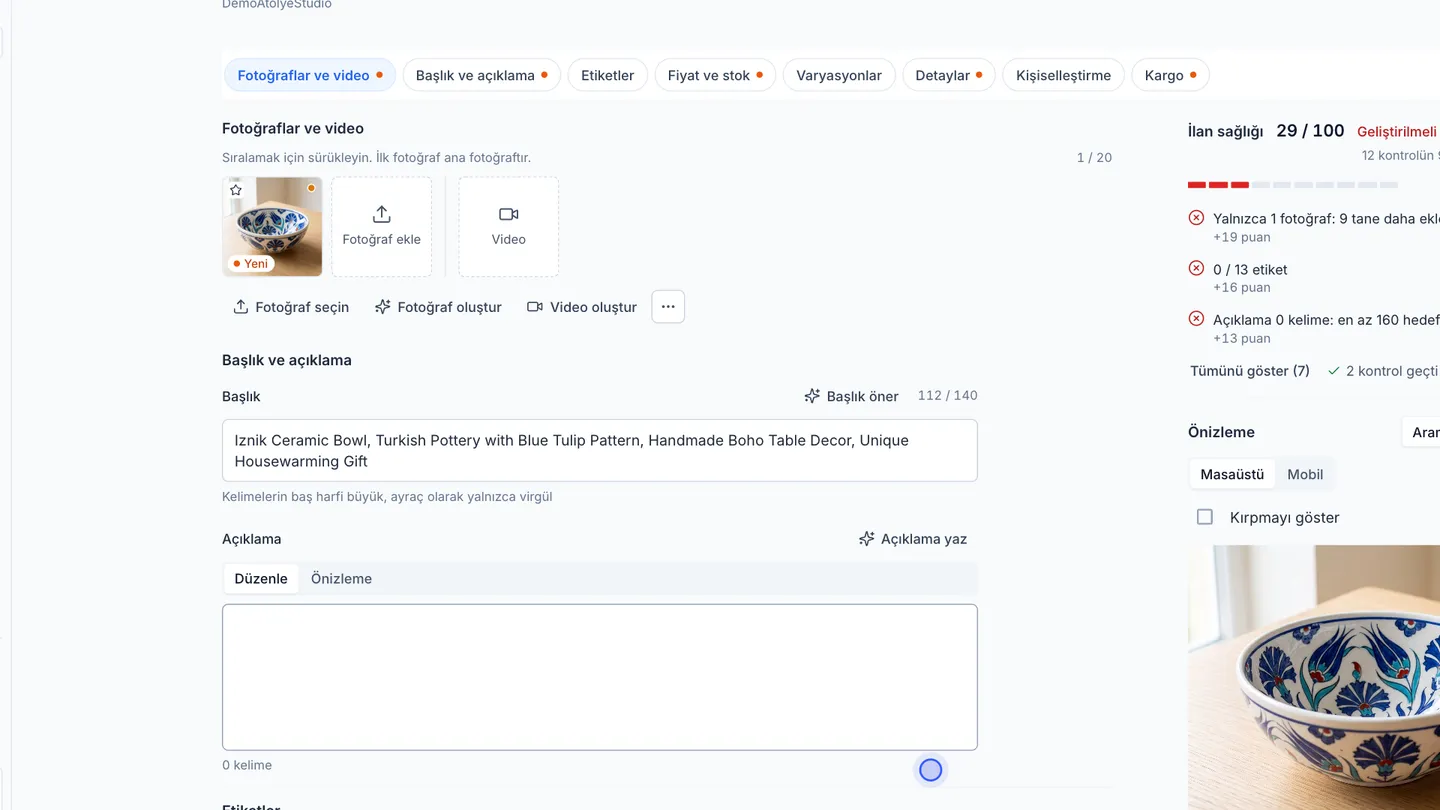
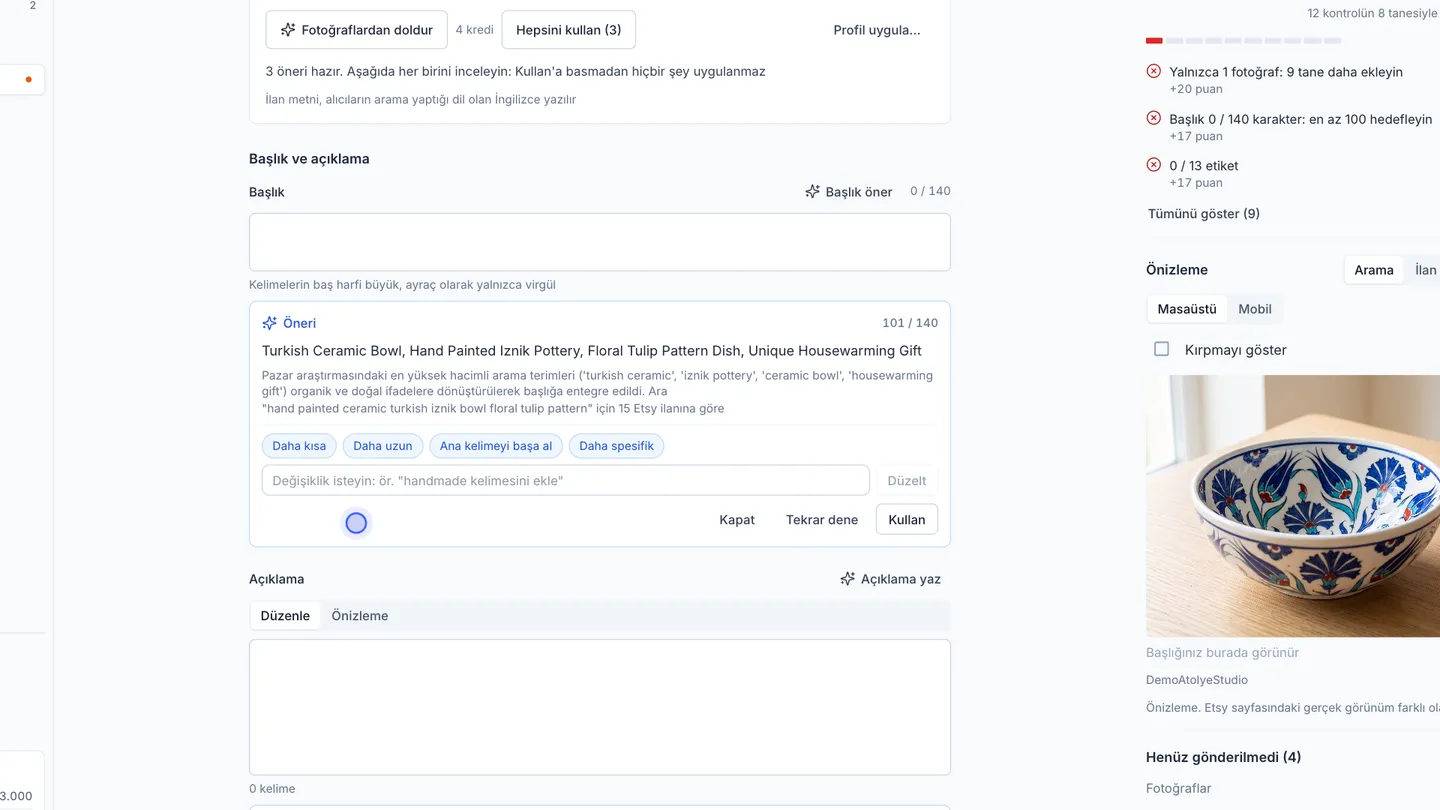
Tutorial 'Etsy'de yapay zekâyla yeni ilan oluşturun' re-recorded on the new flow: photo first, 'Fotoğraflardan doldur' (identify → title → description → tags), 'Fotoğraf oluştur' with the staged photo as reference; real AI answers re-captured once and replayed (big AI images saved next to the fixtur
Claude-Session: https://claude.ai/code/session_01FcMES83gkRwA8ExZkdJDcK

diff --git a/content/tr/guides/etsy-ilan-olusturma.md b/content/tr/guides/etsy-ilan-olusturma.md
@@ -1,8 +1,8 @@
 ---
 title: Etsy'de yapay zekâyla yeni ilan oluşturun | KolayXport
 description: >-
-  Fotoğrafınızı ekleyin; başlığı, etiketleri, açıklamayı ve ek ürün fotoğrafını yapay zekâyla hazırlayın, ilanı taslak
-  olarak kaydedin.
+  Ürün fotoğrafınızı ekleyin; yapay zekâ fotoğrafa bakıp başlığı, açıklamayı ve etiketleri yazsın, ek fotoğraf
+  oluşturun, ilanı taslak kaydedin.
 h1: Etsy'de yapay zekâyla yeni ilan oluşturun
 keyword: etsy ilan nasıl oluşturulur
 updated: '2026-10-18'
@@ -13,7 +13,7 @@ inventoryRefs:
   - staged-drafts-send
 draft: false
 order: 14
-duration: PT1M29S
+duration: PT1M35S
 video:
   file: etsy-ilan-olusturma
   youtubeId: ''
@@ -21,35 +21,40 @@ steps:
   - name: Ürün fotoğrafınızı ekleyin
     text: 'Etsy › Yeni ilan sayfasında önce ürün fotoğrafınızı ekleyin. İlk fotoğraf, ilanın ana fotoğrafı olur.'
     image: media/guides/etsy-ilan-olusturma/01.webp
-  - name: Başlık önerisi alın
+  - name: Fotoğraflardan doldurun
     text: >-
-      Başlığa ürününüzü birkaç kelimeyle yazın ve Başlık öner'e tıklayın. Yapay zekâ, Etsy'de alıcıların aradığı
-      İngilizce bir başlık yazar.
+      Hızlı başlayın kartında Fotoğraflardan doldur'a tıklayın. Yapay zekâ fotoğrafınıza bakıp ürünü tanır, sonra
+      başlığı, açıklamayı ve etiketleri yazar.
     image: media/guides/etsy-ilan-olusturma/02.webp
-  - name: Başlığı kullanın
-    text: 'Öneriyi okuyun; beğendiyseniz Kullan''a tıklayın. Kelimelerin baş harfi büyük, ayraç olarak yalnızca virgül var.'
-    image: media/guides/etsy-ilan-olusturma/03.webp
-  - name: Etiket fikri alın
+  - name: Başlığa bakın
     text: >-
-      Etiketler bölümünde Etiket fikri al'a tıklayın. Gelen etiketlerin her biri en fazla yirmi karakter. Tek tek
-      ekleyebilir ya da hepsini birden ekleyebilirsiniz.
+      Başlık, alıcıların Etsy'de aradığı kelimelerle İngilizce yazılır: kelimelerin baş harfi büyük, ayraç olarak
+      yalnızca virgül var.
+    image: media/guides/etsy-ilan-olusturma/03.webp
+  - name: Açıklamayı okuyun
+    text: Açıklamayı okuyun. Ürününüze uymayan bir şey varsa öneriyi kullandıktan sonra düzeltebilirsiniz.
     image: media/guides/etsy-ilan-olusturma/04.webp
-  - name: Açıklamayı yazdırın
-    text: 'Açıklama yaz''a tıklayın. Gelen metni okuyun, ürününüze uymayan bir şey varsa düzeltin, sonra kullanın.'
+  - name: Etiketlere bakın
+    text: Etiketler de hazır; her biri en fazla yirmi karakter.
     image: media/guides/etsy-ilan-olusturma/05.webp
+  - name: Hepsini kullanın
+    text: Beğendiyseniz Hepsini kullan'a tıklayın. Öneriler alanlara yerleşir; her alanı siz onaylarsınız.
+    image: media/guides/etsy-ilan-olusturma/06.webp
   - name: Ek fotoğraf oluşturun
     text: >-
-      Fotoğraf oluştur'a tıklayın, sahneyi yazın ve Bilgisayardan Yükle ile ürün fotoğrafınızı referans olarak ekleyin.
-      Yapay zekâ ürününüzü bu fotoğraftan örnek alır.
-    image: media/guides/etsy-ilan-olusturma/06.webp
-  - name: Fotoğrafı ilana ekleyin
-    text: Beğendiğinizde Kabul Et ve Yükle deyin; fotoğraf ilanın taslağına eklenir.
+      Şimdi Fotoğraf oluştur'a tıklayın, sahneyi yazın ve eklediğiniz fotoğrafı referans seçin. Yapay zekâ ürününüzü bu
+      fotoğraftan örnek alır.
     image: media/guides/etsy-ilan-olusturma/07.webp
+  - name: Fotoğrafı ilana ekleyin
+    text: >-
+      Ürün aynı kalır, yalnızca sahne değişir. Beğendiğinizde Kabul Et ve Yükle deyin; fotoğraf ilanın taslağına
+      eklenir.
+    image: media/guides/etsy-ilan-olusturma/08.webp
   - name: 'Fiyat, stok ve kargoyu kontrol edin'
     text: 'Fiyatı ve stok adedini girin, kargo profilinizi seçin.'
-    image: media/guides/etsy-ilan-olusturma/08.webp
+    image: media/guides/etsy-ilan-olusturma/09.webp
   - name: Taslak olarak saklayın
     text: İlanınız KolayXport'ta taslak olarak kaydedilir. Siz Etsy'de yayınla demeden Etsy'ye hiçbir şey gitmez.
-    image: media/guides/etsy-ilan-olusturma/09.webp
+    image: media/guides/etsy-ilan-olusturma/10.webp
 ---
 
